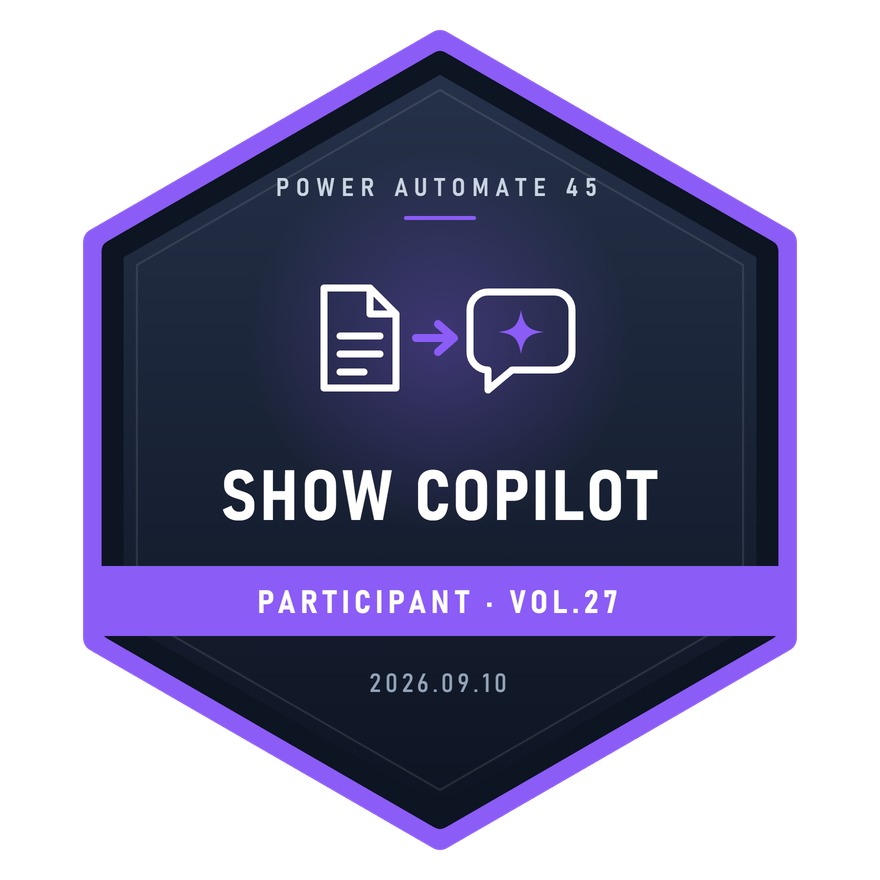
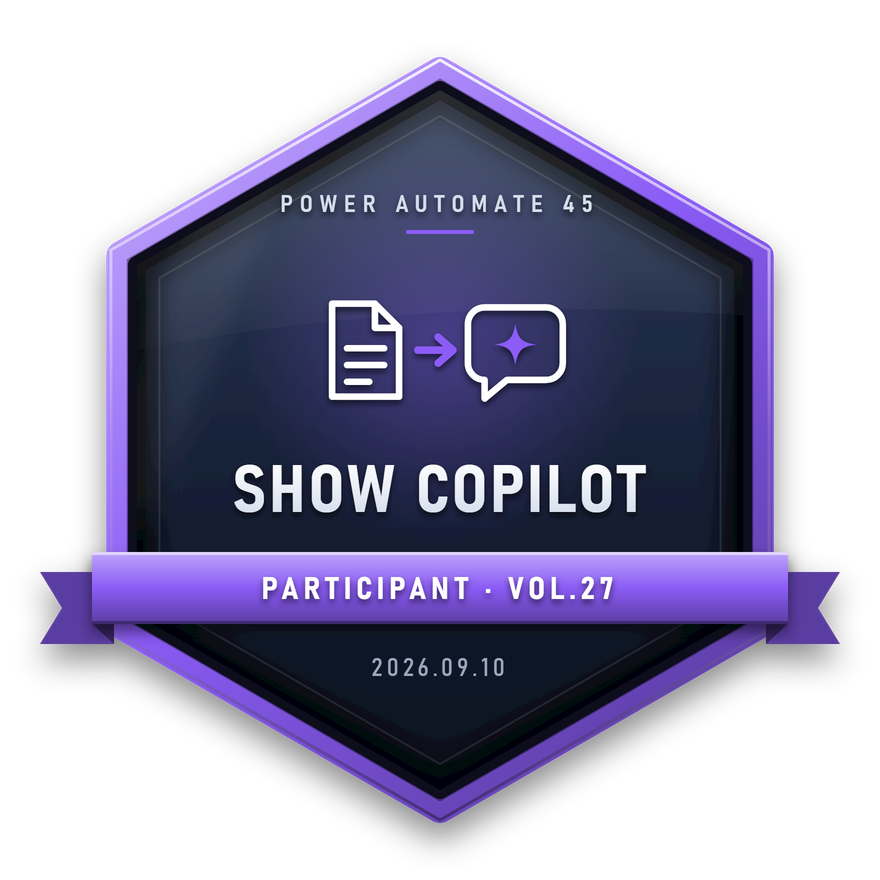
参加バッジ v5：立体の縁・内側の影・光沢・リボン帯・落ち影を追加
- 縁を左上が明るく右下が暗い金属調のグラデーション＋面取りハイライトに
- 本体の縁から内側へぼかした影を落として、くぼみの奥行きを出す
- 上半分に弧で切った光沢、斜めのつやはぼかして境目を消した
- 帯を立体リボンに（上が明るく下が暗い面・両端が折れて後ろへ回る尾）
- 文字とアイコンに小さな影、バッジ全体に落ち影

diff --git a/scripts/make-badge-v5.py b/scripts/make-badge-v5.py
@@ -1,6 +1,6 @@
 # -*- coding: utf-8 -*-
 """
-PA45 参加バッジ v5 — フラット・六角形・モノラインアイコンの新デザイン（2026-09-15〜）。
+PA45 参加バッジ v5 — 六角形・モノラインアイコンに、立体の縁・光沢・リボン帯を足したデザイン（2026-09-15〜）。
 
 v4（make-badge-svg.py）の「メダル＋立体文字＋ギザ縁」から一新。
 資格バッジ系の落ち着いた見た目に寄せ、次の4点だけで構成する：
@@ -88,63 +88,151 @@ ICONS = {
 # ---------------------------------------------------------------------------
 # 本体
 # ---------------------------------------------------------------------------
+def _mix(hex_color, target, t):
+    """hex_color を target（'#ffffff' か '#000000'）へ t の割合で寄せる"""
+    a = [int(hex_color[i:i + 2], 16) for i in (1, 3, 5)]
+    b = [int(target[i:i + 2], 16) for i in (1, 3, 5)]
+    return "#" + "".join(f"{round(x + (y - x) * t):02x}" for x, y in zip(a, b))
+
+
 def build_svg(vol, title, date, icon_key, accent):
-    R_RIM, R_BODY, R_LINE = 396, 378, 350
+    # 帯の両端と落ち影のぶん、六角形を少し小さくしてある
+    R_RIM, R_BODY, R_LINE = 368, 350, 324
+    hi = _mix(accent, "#ffffff", 0.45)   # 明るい面
+    lo = _mix(accent, "#000000", 0.35)   # 暗い面
+    lo2 = _mix(accent, "#000000", 0.60)  # 折り返しの影
     icon = ICONS[icon_key](accent)
     body_pts = hex_points(R_BODY)
+
+    # 帯（リボン）の座標
+    BY, BH = 552, 72            # 帯の上端・高さ
+    BX0, BX1 = 92, 788          # 帯の左右端
+    TD = 20                     # 後ろに回る尾の下がり幅
+    tail_l = f"{BX0+22},{BY+TD} 40,{BY+TD} 62,{BY+TD+BH/2} 40,{BY+TD+BH} {BX0+22},{BY+TD+BH}"
+    tail_r = f"{BX1-22},{BY+TD} 840,{BY+TD} 818,{BY+TD+BH/2} 840,{BY+TD+BH} {BX1-22},{BY+TD+BH}"
+    fold_l = f"{BX0},{BY+BH} {BX0+22},{BY+BH+TD} {BX0+22},{BY+BH}"
+    fold_r = f"{BX1},{BY+BH} {BX1-22},{BY+BH+TD} {BX1-22},{BY+BH}"
+
     return f'''<svg xmlns="http://www.w3.org/2000/svg" viewBox="0 0 {W} {W}" width="{W}" height="{W}">
   <defs>
+    <!-- 縁：左上が明るく右下が暗い金属の面 -->
+    <linearGradient id="rim" x1="0.15" y1="0" x2="0.85" y2="1">
+      <stop offset="0" stop-color="{hi}"/>
+      <stop offset="0.45" stop-color="{accent}"/>
+      <stop offset="1" stop-color="{lo}"/>
+    </linearGradient>
+    <!-- 縁の面取りハイライト（上側だけ光る） -->
+    <linearGradient id="bevel" x1="0" y1="0" x2="0" y2="1">
+      <stop offset="0" stop-color="#ffffff" stop-opacity="0.85"/>
+      <stop offset="0.5" stop-color="#ffffff" stop-opacity="0.10"/>
+      <stop offset="1" stop-color="#000000" stop-opacity="0.35"/>
+    </linearGradient>
+    <!-- 本体 -->
     <linearGradient id="body" x1="0" y1="0" x2="0" y2="1">
-      <stop offset="0" stop-color="#26324a"/>
-      <stop offset="1" stop-color="#0d1422"/>
+      <stop offset="0" stop-color="#2e3d5c"/>
+      <stop offset="0.55" stop-color="#162036"/>
+      <stop offset="1" stop-color="#0a101d"/>
+    </linearGradient>
+    <!-- 上半分の光沢 -->
+    <linearGradient id="gloss" x1="0" y1="0" x2="0" y2="1">
+      <stop offset="0" stop-color="#ffffff" stop-opacity="0.20"/>
+      <stop offset="1" stop-color="#ffffff" stop-opacity="0.00"/>
     </linearGradient>
     <radialGradient id="glow" cx="0.5" cy="0.5" r="0.5">
-      <stop offset="0" stop-color="{accent}" stop-opacity="0.30"/>
+      <stop offset="0" stop-color="{accent}" stop-opacity="0.38"/>
       <stop offset="1" stop-color="{accent}" stop-opacity="0"/>
     </radialGradient>
+    <!-- 帯：上が明るく下が暗い -->
+    <linearGradient id="band" x1="0" y1="0" x2="0" y2="1">
+      <stop offset="0" stop-color="{hi}"/>
+      <stop offset="0.5" stop-color="{accent}"/>
+      <stop offset="1" stop-color="{lo}"/>
+    </linearGradient>
+    <linearGradient id="title" x1="0" y1="0" x2="0" y2="1">
+      <stop offset="0" stop-color="#ffffff"/>
+      <stop offset="1" stop-color="#cfd9ea"/>
+    </linearGradient>
+
+    <filter id="drop" x="-20%" y="-20%" width="140%" height="150%">
+      <feDropShadow dx="0" dy="16" stdDeviation="16" flood-color="#000000" flood-opacity="0.45"/>
+    </filter>
+    <filter id="lift" x="-20%" y="-40%" width="140%" height="200%">
+      <feDropShadow dx="0" dy="4" stdDeviation="3.5" flood-color="#000000" flood-opacity="0.60"/>
+    </filter>
+    <filter id="bandshadow" x="-10%" y="-60%" width="120%" height="260%">
+      <feDropShadow dx="0" dy="8" stdDeviation="7" flood-color="#000000" flood-opacity="0.50"/>
+    </filter>
+    <filter id="blur10"><feGaussianBlur stdDeviation="12"/></filter>
+
     <clipPath id="clip"><polygon points="{body_pts}"/></clipPath>
-    <!-- 帯だけは本体の暗い縁の外側まで伸ばして、紫の縁とつなげる -->
-    <clipPath id="clipband"><polygon points="{hex_points(R_BODY + 14)}"/></clipPath>
     <style>
       .t {{ font-family: Bahnschrift, 'Segoe UI', sans-serif; font-stretch: condensed; }}
     </style>
   </defs>
 
-  <!-- 縁（角を丸めるため同色の太い線を重ねる） -->
-  <polygon points="{hex_points(R_RIM)}" fill="{accent}" stroke="{accent}"
-           stroke-width="28" stroke-linejoin="round"/>
-  <!-- 本体 -->
-  <polygon points="{body_pts}" fill="url(#body)" stroke="#0d1422"
-           stroke-width="22" stroke-linejoin="round"/>
+  <g filter="url(#drop)">
+    <!-- 帯の尾（本体の後ろ） -->
+    <polygon points="{tail_l}" fill="{lo}"/>
+    <polygon points="{tail_r}" fill="{lo}"/>
 
-  <g clip-path="url(#clip)">
-    <!-- アイコンの後ろの淡い光 -->
-    <circle cx="{CX}" cy="340" r="190" fill="url(#glow)"/>
-    <!-- 内側の細い線 -->
-    <polygon points="{hex_points(R_LINE)}" fill="none" stroke="#ffffff"
-             stroke-opacity="0.10" stroke-width="2" stroke-linejoin="round"/>
+    <!-- 縁 -->
+    <polygon points="{hex_points(R_RIM)}" fill="url(#rim)" stroke="url(#rim)"
+             stroke-width="30" stroke-linejoin="round"/>
+    <!-- 縁の面取り -->
+    <polygon points="{hex_points(R_RIM + 12)}" fill="none" stroke="url(#bevel)"
+             stroke-width="3" stroke-linejoin="round"/>
+    <polygon points="{hex_points(R_BODY + 10)}" fill="none" stroke="#000000"
+             stroke-opacity="0.35" stroke-width="3" stroke-linejoin="round"/>
+
+    <!-- 本体 -->
+    <polygon points="{body_pts}" fill="url(#body)" stroke="#0a101d"
+             stroke-width="18" stroke-linejoin="round"/>
+
+    <g clip-path="url(#clip)">
+      <!-- 縁から内側へ落ちる影（くぼみ） -->
+      <polygon points="{body_pts}" fill="none" stroke="#000000" stroke-opacity="0.65"
+               stroke-width="44" filter="url(#blur10)"/>
+      <!-- アイコンの後ろの光 -->
+      <circle cx="{CX}" cy="345" r="200" fill="url(#glow)"/>
+      <!-- 内側の細い線 -->
+      <polygon points="{hex_points(R_LINE)}" fill="none" stroke="#ffffff"
+               stroke-opacity="0.10" stroke-width="2" stroke-linejoin="round"/>
+      <!-- 光沢：上半分を弧で切った面 -->
+      <path d="M0,0 H{W} V330 Q{CX},270 0,380 Z" fill="url(#gloss)"/>
+      <!-- 斜めに走るつや（境目が出ないようにぼかす） -->
+      <polygon points="250,60 330,60 150,520 70,520" fill="#ffffff" fill-opacity="0.06"
+               filter="url(#blur10)"/>
+    </g>
+
+    <!-- 上の小さな名前 -->
+    <text class="t" x="{CX}" y="212" text-anchor="middle" font-size="24" font-weight="600"
+          letter-spacing="7" fill="#d5deeb" filter="url(#lift)">POWER AUTOMATE 45</text>
+    <rect x="{CX - 34}" y="230" width="68" height="4" rx="2" fill="{accent}"/>
+
+    <!-- アイコン（少し縮めて影をつける） -->
+    <g filter="url(#lift)" transform="translate({CX},352) scale(0.93) translate({-CX},-340)">
+      {icon}
+    </g>
+
+    <!-- タイトル -->
+    <text class="t" x="{CX}" y="512" text-anchor="middle" font-size="66" font-weight="700"
+          letter-spacing="3" fill="url(#title)" filter="url(#lift)">{title}</text>
+
+    <!-- 帯（リボン） -->
+    <polygon points="{fold_l}" fill="{lo2}"/>
+    <polygon points="{fold_r}" fill="{lo2}"/>
+    <g filter="url(#bandshadow)">
+      <rect x="{BX0}" y="{BY}" width="{BX1 - BX0}" height="{BH}" fill="url(#band)"/>
+    </g>
+    <rect x="{BX0}" y="{BY}" width="{BX1 - BX0}" height="3" fill="#ffffff" fill-opacity="0.55"/>
+    <rect x="{BX0}" y="{BY + BH - 3}" width="{BX1 - BX0}" height="3" fill="#000000" fill-opacity="0.30"/>
+    <text class="t" x="{CX}" y="{BY + 47}" text-anchor="middle" font-size="31" font-weight="700"
+          letter-spacing="5" fill="#ffffff" filter="url(#lift)">PARTICIPANT · VOL.{vol}</text>
+
+    <!-- 日付 -->
+    <text class="t" x="{CX}" y="676" text-anchor="middle" font-size="25" font-weight="400"
+          letter-spacing="4" fill="#9aa8bd">{date.replace("-", ".")}</text>
   </g>
-  <!-- 帯 -->
-  <rect x="0" y="566" width="{W}" height="70" fill="{accent}" clip-path="url(#clipband)"/>
-
-  <!-- 上の小さな名前 -->
-  <text class="t" x="{CX}" y="196" text-anchor="middle" font-size="25" font-weight="600"
-        letter-spacing="7" fill="#cbd5e1">POWER AUTOMATE 45</text>
-  <rect x="{CX - 36}" y="216" width="72" height="4" rx="2" fill="{accent}"/>
-
-  {icon}
-
-  <!-- タイトル -->
-  <text class="t" x="{CX}" y="520" text-anchor="middle" font-size="70" font-weight="700"
-        letter-spacing="3" fill="#ffffff">{title}</text>
-
-  <!-- 帯の文字 -->
-  <text class="t" x="{CX}" y="613" text-anchor="middle" font-size="32" font-weight="700"
-        letter-spacing="5" fill="#ffffff">PARTICIPANT · VOL.{vol}</text>
-
-  <!-- 日付 -->
-  <text class="t" x="{CX}" y="692" text-anchor="middle" font-size="26" font-weight="400"
-        letter-spacing="4" fill="#94a3b8">{date.replace("-", ".")}</text>
 </svg>'''
 
 
